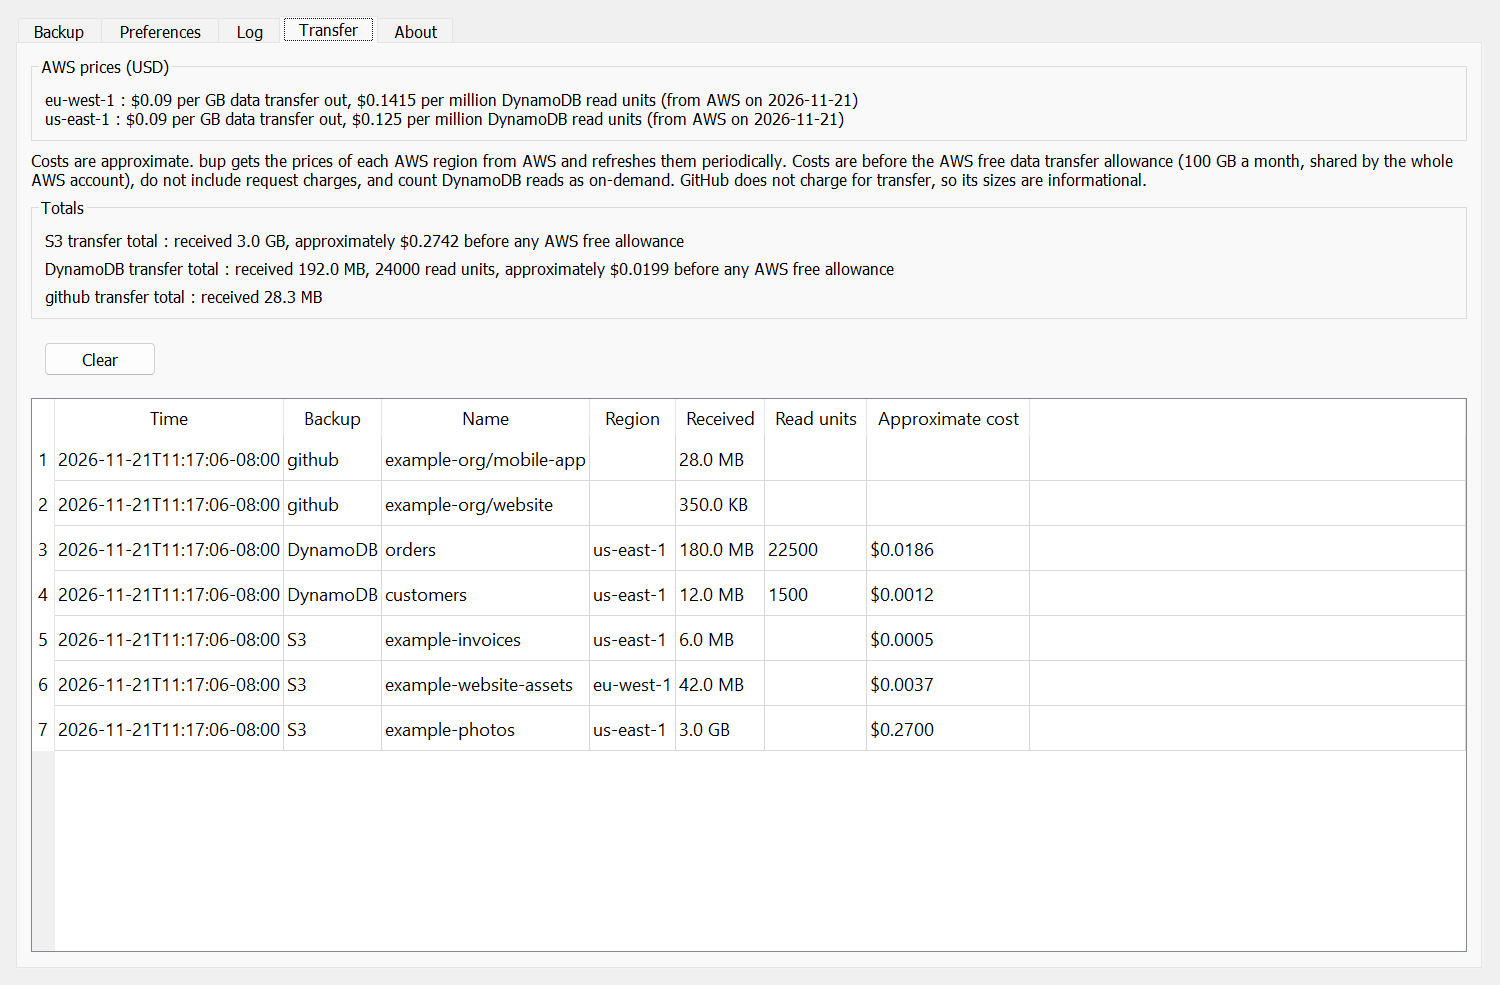
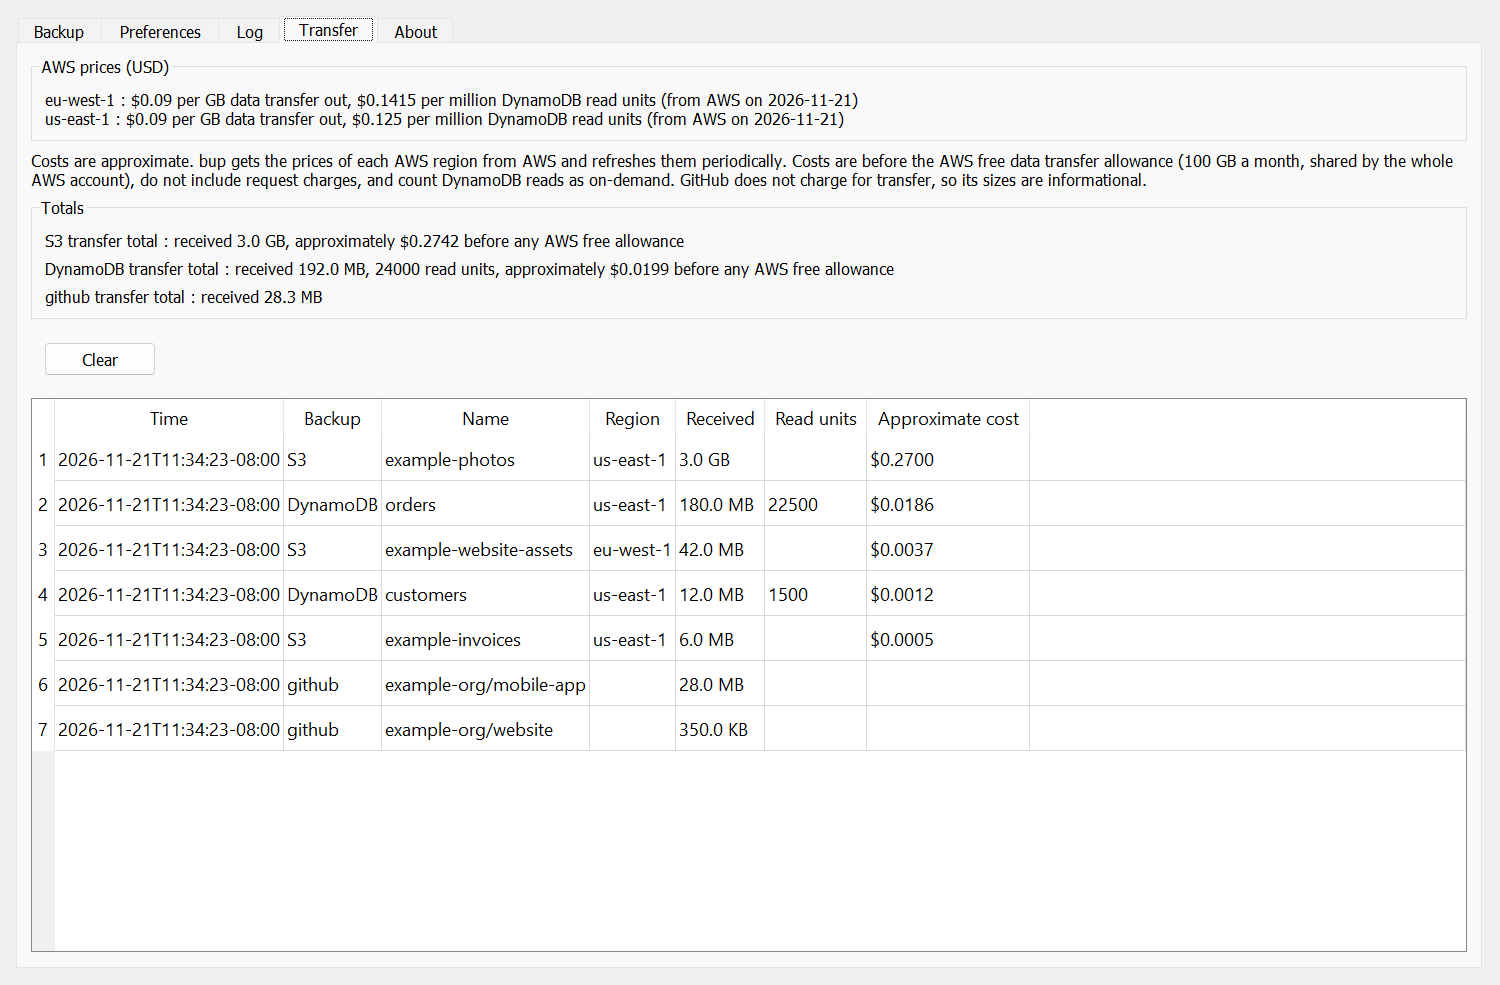
Sort the Transfer tab's table by cost, highest at the top
Rows without a cost (GitHub, or AWS prices not known) go below every row with one, ordered by size received.
When the table is full the lowest cost row is dropped. The README's Transfer screen capture is regenerated.

diff --git a/test_bup/test_transfer_widget.py b/test_bup/test_transfer_widget.py
@@ -76,22 +76,74 @@ def test_unreadable_price_cache_is_reported_in_place_of_the_prices(qapp):
 
 
 # AI-GENERATED TEST (Claude Code) - delete this line to make this test human-owned.
-def test_reported_transfer_is_shown_most_recent_first(transfer_widget):
-    transfer_emitter.transfer_signal.emit(TransferRecord(BackupTypes.S3, "my-bucket", 2048, cost=0.5, region="eu-west-1"))
-    transfer_emitter.transfer_signal.emit(TransferRecord(BackupTypes.DynamoDB, "my_table", 1024, 12.5, 0.25, "us-west-2"))
+def test_reported_transfer_is_shown(transfer_widget):
     transfer_emitter.transfer_signal.emit(TransferRecord(BackupTypes.github, "owner/repo", 4096))
+    transfer_emitter.transfer_signal.emit(TransferRecord(BackupTypes.DynamoDB, "my_table", 1024, 12.5, 0.25, "us-west-2"))
+    transfer_emitter.transfer_signal.emit(TransferRecord(BackupTypes.S3, "my-bucket", 2048, cost=0.5, region="eu-west-1"))
 
     assert transfer_widget.table.rowCount() == 3
-    github_row = _row_text(transfer_widget, 0)
-    del github_row["Time"]
-    assert github_row == {"Backup": "github", "Name": "owner/repo", "Region": "", "Received": "4.0 KB", "Read units": "", "Approximate cost": ""}
-    dynamodb_row = _row_text(transfer_widget, 1)
-    del dynamodb_row["Time"]
-    assert dynamodb_row == {"Backup": "DynamoDB", "Name": "my_table", "Region": "us-west-2", "Received": "1.0 KB", "Read units": "12.5", "Approximate cost": "$0.2500"}
-    s3_row = _row_text(transfer_widget, 2)
+    s3_row = _row_text(transfer_widget, 0)
     assert s3_row["Time"] != ""
     del s3_row["Time"]
     assert s3_row == {"Backup": "S3", "Name": "my-bucket", "Region": "eu-west-1", "Received": "2.0 KB", "Read units": "", "Approximate cost": "$0.5000"}
+    dynamodb_row = _row_text(transfer_widget, 1)
+    del dynamodb_row["Time"]
+    assert dynamodb_row == {"Backup": "DynamoDB", "Name": "my_table", "Region": "us-west-2", "Received": "1.0 KB", "Read units": "12.5", "Approximate cost": "$0.2500"}
+    github_row = _row_text(transfer_widget, 2)
+    del github_row["Time"]
+    assert github_row == {"Backup": "github", "Name": "owner/repo", "Region": "", "Received": "4.0 KB", "Read units": "", "Approximate cost": ""}
+
+
+def _names(transfer_widget: TransferWidget) -> list:
+    return [_row_text(transfer_widget, row)["Name"] for row in range(transfer_widget.table.rowCount())]
+
+
+# AI-GENERATED TEST (Claude Code) - delete this line to make this test human-owned.
+def test_rows_are_sorted_by_cost_highest_at_the_top(transfer_widget):
+    # reported in neither cost order nor reverse cost order
+    for name, cost in (("middle", 0.25), ("lowest", 0.001), ("highest", 12.5), ("second", 3.0), ("free", 0.0)):
+        transfer_emitter.transfer_signal.emit(TransferRecord(BackupTypes.S3, name, 1024, cost=cost))
+
+    assert _names(transfer_widget) == ["highest", "second", "middle", "lowest", "free"]
+
+
+# AI-GENERATED TEST (Claude Code) - delete this line to make this test human-owned.
+def test_rows_are_sorted_by_cost_not_by_how_the_cost_is_written(transfer_widget):
+    # as text "$9.00" sorts above "$10.00"
+    transfer_emitter.transfer_signal.emit(TransferRecord(BackupTypes.S3, "nine", 1024, cost=9.0))
+    transfer_emitter.transfer_signal.emit(TransferRecord(BackupTypes.S3, "ten", 1024, cost=10.0))
+
+    assert _names(transfer_widget) == ["ten", "nine"]
+
+
+# AI-GENERATED TEST (Claude Code) - delete this line to make this test human-owned.
+def test_rows_without_a_cost_are_below_those_with_one_by_size(transfer_widget):
+    transfer_emitter.transfer_signal.emit(TransferRecord(BackupTypes.github, "small-repo", 1024))
+    transfer_emitter.transfer_signal.emit(TransferRecord(BackupTypes.S3, "free-bucket", 512, cost=0.0))
+    transfer_emitter.transfer_signal.emit(TransferRecord(BackupTypes.github, "big-repo", 4096))
+    transfer_emitter.transfer_signal.emit(TransferRecord(BackupTypes.S3, "prices-unknown-bucket", 2048, cost=None))
+
+    assert _names(transfer_widget) == ["free-bucket", "big-repo", "prices-unknown-bucket", "small-repo"]
+
+
+# AI-GENERATED TEST (Claude Code) - delete this line to make this test human-owned.
+def test_rows_of_equal_cost_are_by_size_then_most_recent_first(transfer_widget):
+    transfer_emitter.transfer_signal.emit(TransferRecord(BackupTypes.S3, "first", 1024, cost=0.5))
+    transfer_emitter.transfer_signal.emit(TransferRecord(BackupTypes.S3, "bigger", 2048, cost=0.5))
+    transfer_emitter.transfer_signal.emit(TransferRecord(BackupTypes.S3, "second", 1024, cost=0.5))
+
+    assert _names(transfer_widget) == ["bigger", "second", "first"]
+
+
+# AI-GENERATED TEST (Claude Code) - delete this line to make this test human-owned.
+def test_rows_stay_sorted_after_clear(transfer_widget):
+    transfer_emitter.transfer_signal.emit(TransferRecord(BackupTypes.S3, "before-clear", 1024, cost=100.0))
+    transfer_widget.clear_button.click()
+
+    transfer_emitter.transfer_signal.emit(TransferRecord(BackupTypes.S3, "low", 1024, cost=0.25))
+    transfer_emitter.transfer_signal.emit(TransferRecord(BackupTypes.S3, "high", 1024, cost=0.5))
+
+    assert _names(transfer_widget) == ["high", "low"]
 
 
 # AI-GENERATED TEST (Claude Code) - delete this line to make this test human-owned.
@@ -139,11 +191,10 @@ def test_totals_per_backup_type(transfer_widget):
 # AI-GENERATED TEST (Claude Code) - delete this line to make this test human-owned.
 def test_rows_are_capped_but_totals_are_not(transfer_widget):
     with patch("bup.gui.transfer_widget.max_transfer_rows", 2):
-        for bucket_number in range(3):
-            transfer_emitter.transfer_signal.emit(TransferRecord(BackupTypes.S3, f"bucket-{bucket_number}", 1024, cost=0.25))
+        for name, cost in (("lowest", 0.25), ("highest", 1.0), ("middle", 0.5)):
+            transfer_emitter.transfer_signal.emit(TransferRecord(BackupTypes.S3, name, 1024, cost=cost))
 
-    assert transfer_widget.table.rowCount() == 2
-    assert _row_text(transfer_widget, 0)["Name"] == "bucket-2"  # the oldest row was dropped
+    assert _names(transfer_widget) == ["highest", "middle"]  # the lowest cost row was dropped
     assert transfer_widget.total_labels[BackupTypes.S3].text().startswith("S3 transfer total : received 3.0 KB")
 
 

diff --git a/bup/gui/transfer_widget.py b/bup/gui/transfer_widget.py
@@ -1,6 +1,6 @@
 import sqlite3
 from datetime import datetime
-from typing import Dict, List
+from typing import Dict, List, Tuple
 
 from PyQt5.QtWidgets import QWidget, QVBoxLayout, QHBoxLayout, QGroupBox, QLabel, QPushButton, QTableWidget, QTableWidgetItem, QHeaderView, QAbstractItemView
 from balsa import get_logger
@@ -42,10 +42,20 @@ def get_prices_text() -> str:
     )
 
 
+def get_cost_rank(transfer_record: TransferRecord) -> Tuple[bool, float, int]:
+    """
+    Where a transfer belongs in the table, which is sorted by cost: a higher rank is closer to the top. Transfers without a cost
+    (GitHub, or AWS prices not known) rank below every transfer with one, and equal costs rank by the size received.
+    """
+    has_cost = transfer_record.cost is not None
+    return has_cost, transfer_record.cost if has_cost else 0.0, transfer_record.received_bytes
+
+
 class TransferWidget(QWidget):
     """
     "Transfer" tab - what each backup received over the network and approximately what AWS charges for it, one row per S3 bucket,
-    DynamoDB table or GitHub repo that received anything, with totals per backup type since bup was started (or the tab was cleared).
+    DynamoDB table or GitHub repo that received anything (highest cost at the top), with totals per backup type since bup was started
+    (or the tab was cleared).
     """
 
     def __init__(self):
@@ -73,7 +83,8 @@ class TransferWidget(QWidget):
             self.totals_widget.layout().addWidget(self.total_labels[backup_type])
         self.layout().addWidget(self.totals_widget)
 
-        # one row per transfer, most recent first
+        # one row per transfer, highest cost first
+        self.row_records: List[TransferRecord] = []  # the transfer record of each table row, in row order
         self.controls_widget = QWidget()
         self.controls_widget.setLayout(QHBoxLayout())
         self.clear_button = QPushButton("Clear")
@@ -104,11 +115,18 @@ class TransferWidget(QWidget):
             f"{transfer_record.read_units:g}" if transfer_record.read_units > 0.0 else "",
             format_cost(transfer_record.cost) if transfer_record.cost is not None else "",
         ]
-        self.table.insertRow(0)
+        # keep the rows sorted by cost, highest at the top: the new row goes above the first row that doesn't rank higher than it
+        # (so of two equal rows the more recent is on top)
+        new_row_rank = get_cost_rank(transfer_record)
+        row = next((row for row, row_record in enumerate(self.row_records) if get_cost_rank(row_record) <= new_row_rank), len(self.row_records))
+        self.row_records.insert(row, transfer_record)
+        self.table.insertRow(row)
         for column, text in enumerate(row_text):
-            self.table.setItem(0, column, QTableWidgetItem(text))
+            self.table.setItem(row, column, QTableWidgetItem(text))
         if self.table.rowCount() > max_transfer_rows:
-            self.table.removeRow(self.table.rowCount() - 1)  # FIFO - the totals still include the removed row
+            # drop the bottom (lowest cost) row - the totals still include it
+            self.row_records.pop()
+            self.table.removeRow(self.table.rowCount() - 1)
         self.update_totals()
         self.update_prices()  # the backup that reported this may have just fetched prices
 
@@ -123,5 +141,6 @@ class TransferWidget(QWidget):
     def clear(self):
         for backup_type in BackupTypes:
             self.transfer_records[backup_type] = []
+        self.row_records = []
         self.table.setRowCount(0)
         self.update_totals()

diff --git a/README.md b/README.md
@@ -176,7 +176,8 @@ character, on every platform.
 
 AWS charges for data sent out to the internet, which is what a backup is. bup reports what each backup received and
 approximately what AWS charges for it. In the GUI this is in the "Transfer" tab (and the application log), with one row
-per S3 bucket, DynamoDB table or GitHub repo that received anything and a total per backup type. The CLI prints the
+per S3 bucket, DynamoDB table or GitHub repo that received anything (sorted by cost, highest at the top) and a total
+per backup type. The CLI prints the
 same lines in its regular output.
 
 - **S3:** the total size of the files `aws s3 sync` downloaded, priced as data transfer out.
